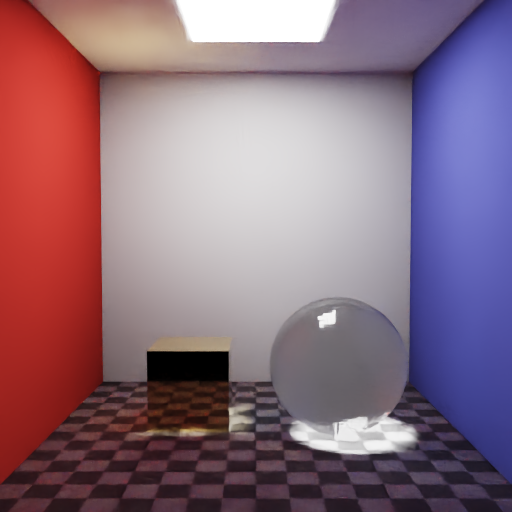
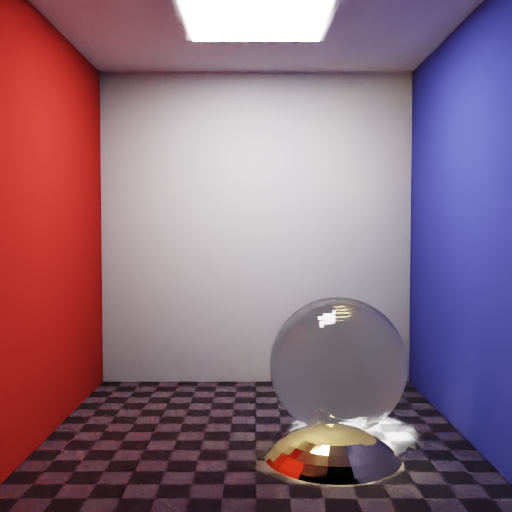
Fix Cornell Box test - replace metal box with metal sphere to verify GGX material works

diff --git a/libWR/test/cornell_box_var_test.cpp b/libWR/test/cornell_box_var_test.cpp
@@ -77,59 +77,12 @@ void buildCornellBoxVar(Scene* scene) {
         scene->addTriangleMesh(std::span(verts), std::span(inds), glassMat);
     }
     
-    // Gold metal box on the left
+    // Gold metal sphere on the left (using sphere to test if material works)
     {
-        float boxSize = 0.6f;
-        float boxY = 0.0f;
-        float boxX = -0.5f;  // Position on the left
-        float boxZ = -0.3f;  // Slightly forward
-        float verts[] = {
-            // Front face
-            boxX - boxSize*0.5f, boxY, boxZ - boxSize*0.5f,
-            boxX + boxSize*0.5f, boxY, boxZ - boxSize*0.5f,
-            boxX + boxSize*0.5f, boxY + boxSize, boxZ - boxSize*0.5f,
-            boxX - boxSize*0.5f, boxY + boxSize, boxZ - boxSize*0.5f,
-            // Back face
-            boxX - boxSize*0.5f, boxY, boxZ + boxSize*0.5f,
-            boxX + boxSize*0.5f, boxY, boxZ + boxSize*0.5f,
-            boxX + boxSize*0.5f, boxY + boxSize, boxZ + boxSize*0.5f,
-            boxX - boxSize*0.5f, boxY + boxSize, boxZ + boxSize*0.5f,
-            // Left face
-            boxX - boxSize*0.5f, boxY, boxZ - boxSize*0.5f,
-            boxX - boxSize*0.5f, boxY, boxZ + boxSize*0.5f,
-            boxX - boxSize*0.5f, boxY + boxSize, boxZ + boxSize*0.5f,
-            boxX - boxSize*0.5f, boxY + boxSize, boxZ - boxSize*0.5f,
-            // Right face
-            boxX + boxSize*0.5f, boxY, boxZ - boxSize*0.5f,
-            boxX + boxSize*0.5f, boxY, boxZ + boxSize*0.5f,
-            boxX + boxSize*0.5f, boxY + boxSize, boxZ + boxSize*0.5f,
-            boxX + boxSize*0.5f, boxY + boxSize, boxZ - boxSize*0.5f,
-            // Top face
-            boxX - boxSize*0.5f, boxY + boxSize, boxZ - boxSize*0.5f,
-            boxX + boxSize*0.5f, boxY + boxSize, boxZ - boxSize*0.5f,
-            boxX + boxSize*0.5f, boxY + boxSize, boxZ + boxSize*0.5f,
-            boxX - boxSize*0.5f, boxY + boxSize, boxZ + boxSize*0.5f,
-            // Bottom face
-            boxX - boxSize*0.5f, boxY, boxZ - boxSize*0.5f,
-            boxX + boxSize*0.5f, boxY, boxZ - boxSize*0.5f,
-            boxX + boxSize*0.5f, boxY, boxZ + boxSize*0.5f,
-            boxX - boxSize*0.5f, boxY, boxZ + boxSize*0.5f
-        };
-        uint32_t inds[] = {
-            // Front face
-            0, 1, 2, 0, 2, 3,
-            // Back face
-            4, 5, 6, 4, 6, 7,
-            // Left face
-            8, 9, 10, 8, 10, 11,
-            // Right face
-            12, 13, 14, 12, 14, 15,
-            // Top face
-            16, 17, 18, 16, 18, 19,
-            // Bottom face
-            20, 21, 22, 20, 22, 23
-        };
-        scene->addTriangleMesh(std::span(verts, 72), std::span(inds, 36), goldMat);  // Gold metal box
+        std::vector<float> verts;
+        std::vector<uint32_t> inds;
+        createSphere(verts, inds, 0.5f, -0.4f, 0.5f, 0.6f, 32, 24);  // Gold sphere
+        scene->addTriangleMesh(std::span(verts), std::span(inds), goldMat);
     }
     
     std::cout << "[Test] Cornell Box Variation scene built" << std::endl;
